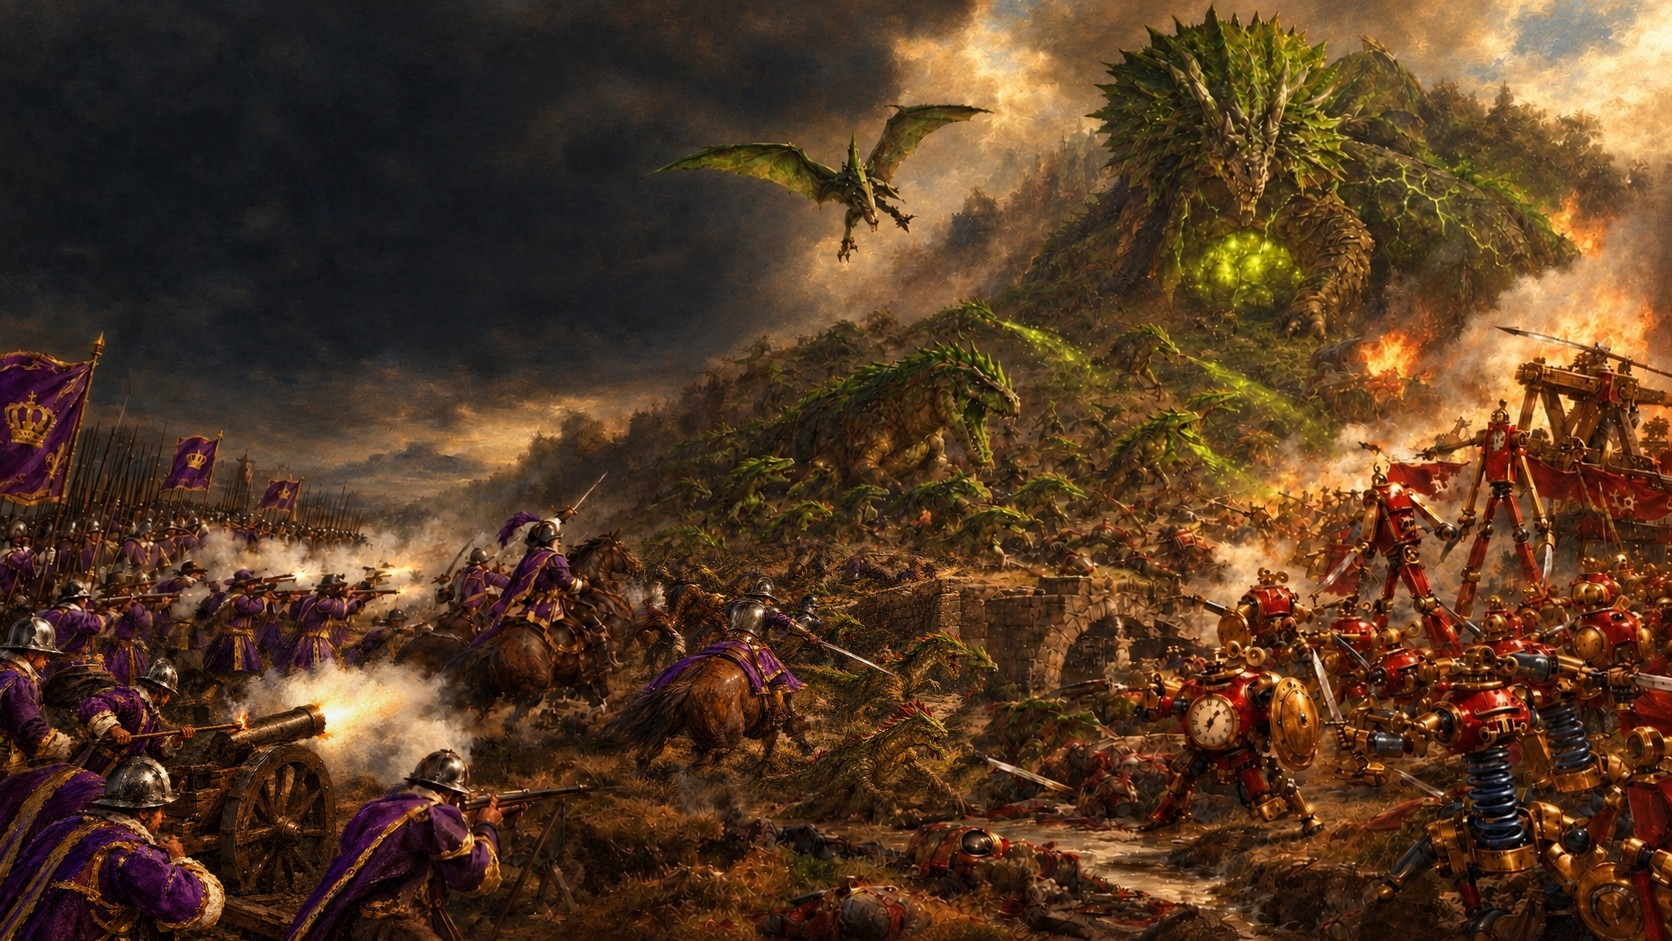
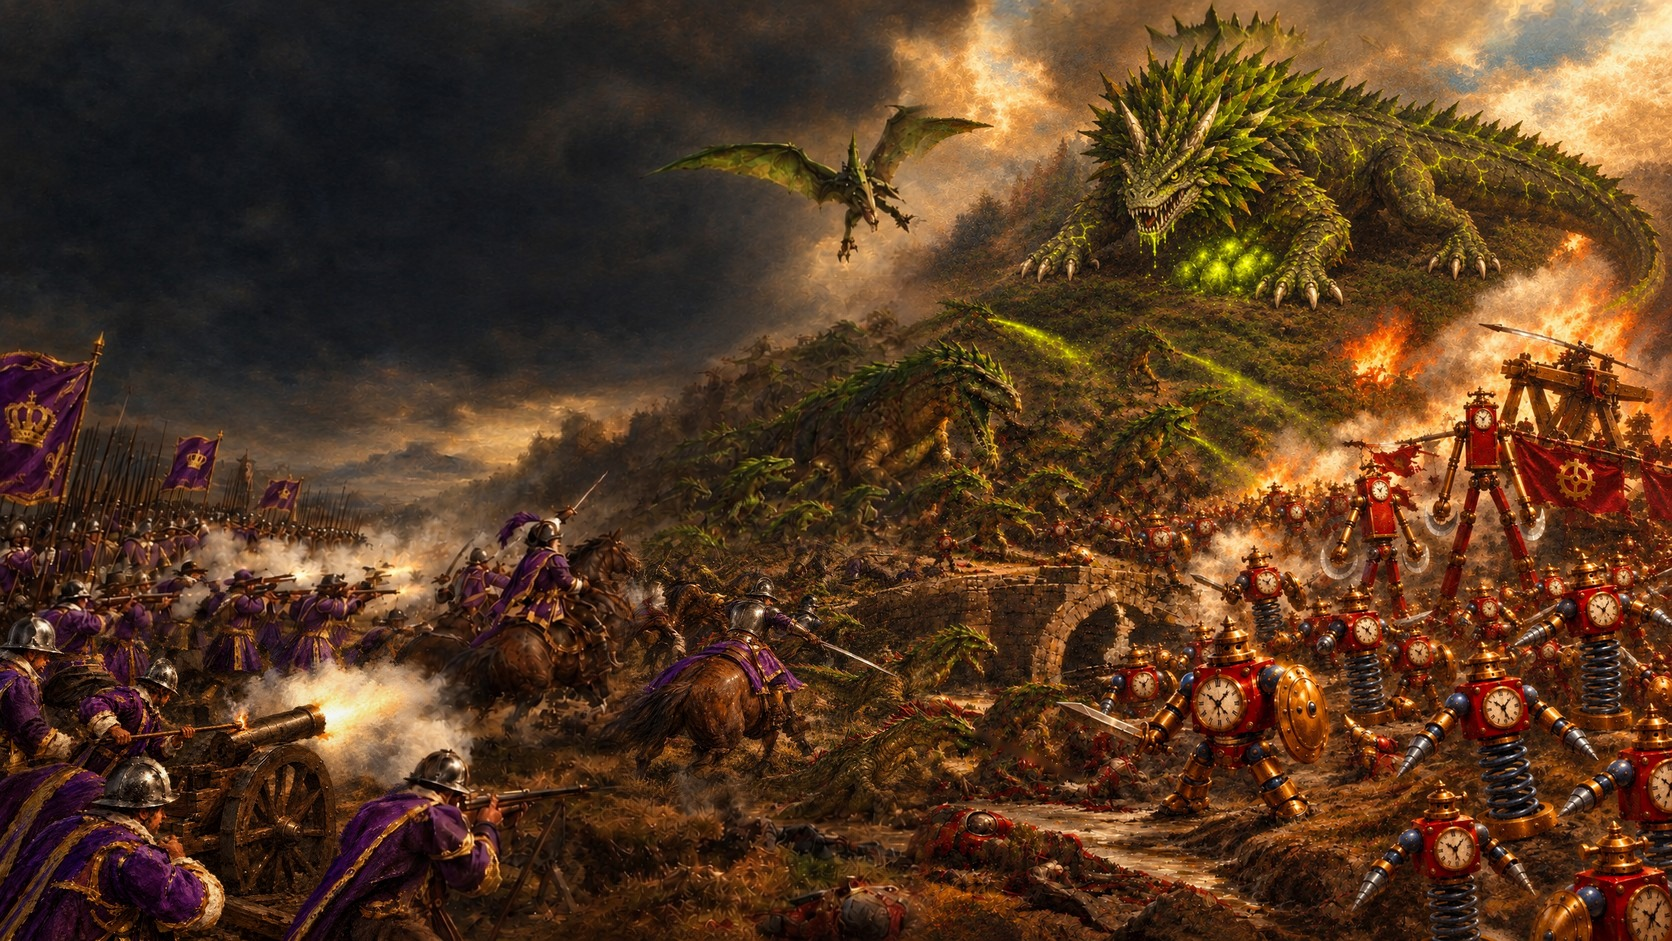
0.33.32: the main menu painting's Brood Mother and Clockwork front fixed (owner's repaint blended in, a stray sword inpainted)
Claude-Session: https://claude.ai/code/session_01NtmEZhP1uA8k4DLQ7BYfMz

Changed region(s): [[0.5287, 0.0308, 1.0, 1.0]]

diff --git a/tools/menu_fix_composite.py b/tools/menu_fix_composite.py
@@ -2,7 +2,7 @@
 Each art/menu_fix/<name>_fixed.png is the repaint of the crop boxes.json[<name>] of art/menu_fix/battle_full.png (the
 original). It is scaled to the box, colour-matched to the original crop (per-channel mean/std on the outer ring, so the
 light stays the painting's), and laid in with a feathered edge (FEATHER px fading to the original) so no seam shows.
-Writes assets/menu/battle.jpg.  python3 tools/menu_fix_composite.py [--preview DIR]"""
+boxes.json "_erase_lines": [x0, y0, x1, y1, width] strokes inpainted afterwards (a stray sword). Writes assets/menu/battle.jpg.  python3 tools/menu_fix_composite.py [--preview DIR]"""
 import json
 import os
 import sys
@@ -19,6 +19,7 @@ def main():
     out = np.asarray(base).astype(float)
     boxes = json.load(open(os.path.join(D, "boxes.json")))
     used = []
+    erase = boxes.pop("_erase_lines", [])
     for name, b in boxes.items():
         p = os.path.join(D, name + "_fixed.png")
         if not os.path.exists(p):
@@ -50,6 +51,14 @@ def main():
         out[y0:y1, x0:x1] = orig * (1 - a) + np.clip(fx, 0, 255) * a
         used.append(name)
     im = Image.fromarray(np.clip(out, 0, 255).astype(np.uint8))
+    if erase:     # stray bits the repaints kept (a sword with no hand): painted over from their surroundings
+        import cv2
+        a = np.asarray(im).copy()
+        mask = np.zeros(a.shape[:2], np.uint8)
+        for x0, y0, x1, y1, w in erase:
+            cv2.line(mask, (x0, y0), (x1, y1), 255, w)
+        a = cv2.inpaint(a, mask, 6, cv2.INPAINT_TELEA)
+        im = Image.fromarray(a)
     im.save("assets/menu/battle.jpg", quality=92)
     print("menu painting: blended", used)
     if "--preview" in sys.argv:

diff --git a/CLAUDE.md b/CLAUDE.md
@@ -99,7 +99,7 @@
   with a StarCraft II opening. Also running: online-ranked (OWNER 01:04: SERVER-AUTHORITATIVE ranked matches, Steam-only
   ladder, bans by SteamID64 + optional Steam game ban; prototype + docs/online_ranked.md). Main menu painting: hallucination
   fixes by crop repaints (art/menu_fix/, tools/menu_fix_composite.py): gunner and horseman done 0.33.31, the Clockwork
-  front and the Brood Mother redone with unit references (waiting on the owner's pictures).
+  front and the Brood Mother DONE 0.33.32 (one repaint of the right side, art/menu_fix/f34_right_fixed.png, a stray sword inpainted).
   GROUND SYSTEM (owner, DECIDED 2026-11-13 01:34-01:40; docs/ground_system.md): every economy building drinks from a
   CIRCLE of ground like the Rootmaw; spent ground shown RED while placing; overlap with spent ground gives a proportional
   yield; ground exists only in a DISTRICT PER HALL (fixed amount each); the layer shows FAINTLY while placing ANY building

diff --git a/README.md b/README.md
@@ -2,7 +2,7 @@
 
 *(a working title: the game was called Holdfast until October 2026, but that name belongs to another game; the web address, the app file and the repository keep the old name for now so links and installs keep working)*
 
-**Play in your browser (version 0.33.31): https://holdfastrts.github.io/Holdfast/**
+**Play in your browser (version 0.33.32): https://holdfastrts.github.io/Holdfast/**
 
 **Windows program: https://holdfastrts.github.io/Holdfast/Holdfast_windows.zip** (rebuilt on every push; unzip it and run Holdfast.exe; if Windows warns "Windows protected your PC", click More info, then Run anyway)
 
